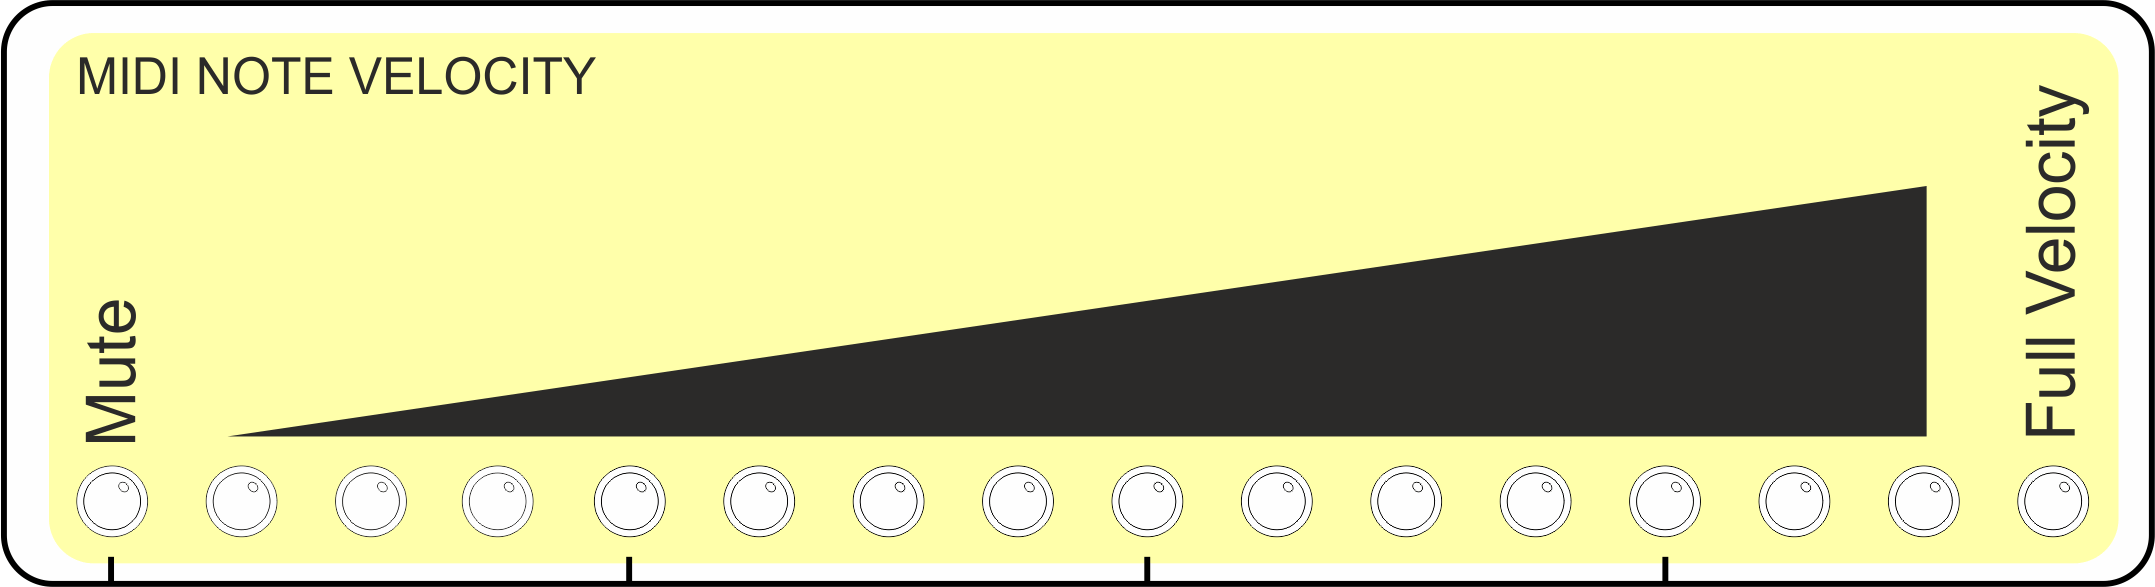
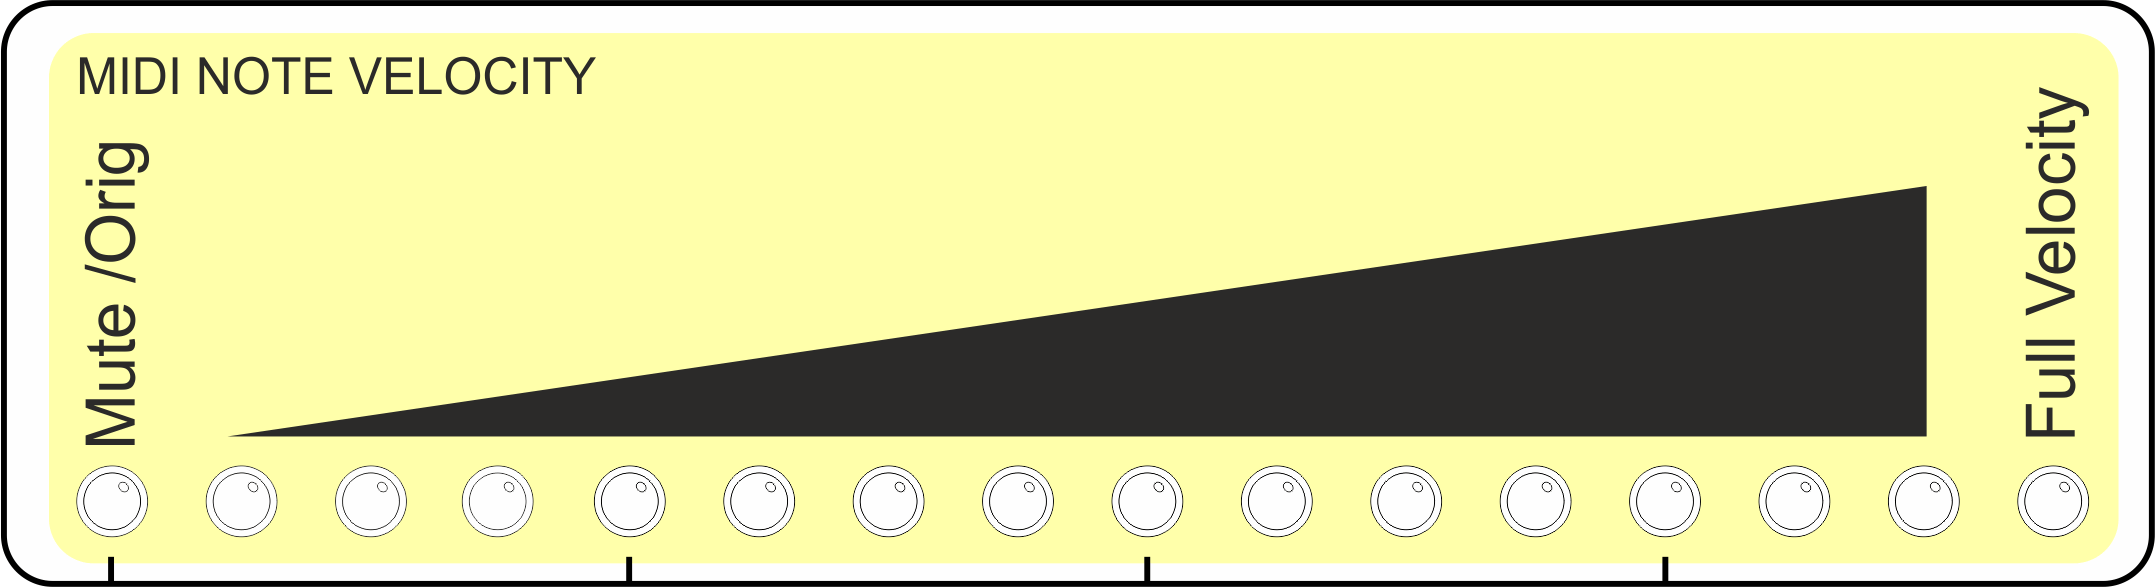
arpie manual updates

diff --git a/products/arpie/manual.md b/products/arpie/manual.md
@@ -263,10 +263,11 @@ This option allows you to select between ARPIE's basic arpeggiation modes:
 
 - **Alternate** plays notes of the chord in ascending then descending order. If the sequence spans multiple octaves, all octaves are spanned on the way "up" before returning "down". The highest note is not repeated.
 
-- **Random** plays the notes of a chord in a random order. 
+- **Random** plays the notes of a chord in a random order. This randomised order is determined when the arpeggio is built and is repeated until the arpeggio is rebuilt (e.g. press the Random Mode button again)
 
 - **Manual** plays the notes of the chord in the order they were received on the MIDI input.
 
+<a name="polygate">
 - **Poly Gate** plays all the notes of the chord at the same time. Thicken up with <a href="#span">SPAN</a> and add some groove with <a href="#patn">PATN</a> to get dancey chord stabs!
 
 ## Pattern Fill
@@ -295,7 +296,7 @@ Press and hold MODE to access the Performance Options. This menu contains settin
 
 - **Glide Tie** controls the operation of the <a href="#patn2">glide</a> function. If the option is OFF, the arpeggiator note coinciding with a glide point is played for one whole step. If the option is ON, then the note is "tied" to the next playing note.
 
-- **Patn Fn2**  controls the long-press function of the <a href="#patn2">PATN</a> button. When this option in OFF, the second function of PATN is **accent**. When the option is ON the function is **glide**
+- **Patn Fn2**  controls the long-press function of the <a href="#patn2">PATN</a> button. When this option in ON, the second function of PATN is **accent**. When the option is OFF the function is **glide**
 
 #SHFT 
 <a name="shft">
@@ -307,11 +308,30 @@ This function transposes the arpeggiated sequence up or down by up to three whol
 
 <a name="shft2">
 
+## Force To Scale: Root Note
+
+<img class="wide" src="img/froot.png">
+
+Hold the SHFT button to access the Force to Scale Root note option.
+
+This option works with <a href="span2">force to scale mode</a> to set the root note of the musical scale to which notes are being forced. For example if force to scale root note is set to D# and force to scale mode is Locrian, notes will be forced into a D# Locrian mode. See <a href="span2">force to scale mode</a> for more information.
+
+
+# SPAN 
+<a name="span">
+
+## Octave Span
+<img class="wide" src="img/span.png">
+
+This option determines the number of octaves the arpeggiated sequence will be extended over. This also works in <a href="#polygate">polyphonic gate mode</a> to layer additional octaves worth of notes on the chord.
+
+<a name="span2">
+
 ## Force To Scale: Mode
 
 <img class="wide" src="img/fscale.png">
 
-The force to scale function makes sure that all notes output from ARPIE fits within a specific musical scale (or "key"). This can sound especially good when transposing held arpeggios, as the note intervals within the chord change to keep it in key.
+The force to scale function is accessed with a long press to the SHFT button. When enabled, this feature makes sure that all notes output from ARPIE fits within a specific musical scale (or "key"). This can sound especially good when transposing held arpeggios, as the note intervals within the chord change to keep it in key.
 
 A musical key is made up of a root note (for example "C") and a set of note intervals which together give us a scale (e.g. "C minor"). 
 
@@ -319,15 +339,21 @@ These sets of note intervals have wierd names derived from ancient Greek tribes!
 
 For example if you play white notes C through C you play a Major scale, which happens to be the same as the "Ionian" mode. If you play white notes A through A you are playing a Minor scale, or "Aeolian" mode. The other modes are just the sets of intervals you get by playing sequences of white notes with different start points... simple! but each mode has a different "feel" and we can have fun playing with them!
 
-The **chromatic** scale includes all notes. Selecting this option turns off force-to-scale. This is the default setting.
+- The **chromatic** scale includes all notes. Selecting this option effectively turns off force-to-scale. This is the default setting.
 
-As well as changing  musical mode, force-to-scale lets us select the <a href="#span2">root note</a> (we need both a musical mode and a starting note to define a scale) and control how out of scale notes are corrected.
+- The **Ionian** mode is equivalent to the intervals between all the white notes on a piano keyboard from C to C. It is the same as the normal major scale.
+
+- The **Aeolian** mode is equivalent to the intervals between all the white notes on a piano keyboard from A to A. It is the same as the natural minor scale.
+
+- The other modes follow the same pattern of white notes from D to D (Dorian), E (Phrygian), F (Lydian), G (Mixolydian) and B (Locrian). Each is a different way of dividing up the 12 semitones of an octave into 8 notes and has a different feel.
+
+As well as changing  musical mode, force-to-scale lets us select the <a href="#shft2">root note</a> (we need both a musical mode and a starting note to define a scale) and control how out of scale notes are corrected.
 
 ## Force To Scale: Note Correction
 
-If you want to make an omelette you need to break a few eggs - and if you want to force a sequence of notes into a musical scale some of them might not fit!
+So - if you want to make an omelette you need to break a few eggs - and if you want to force a sequence of notes into a musical scale some of them just might not fit!
 
-The options ot the right of the SHFT long press menu let us decide what to do with these outliers. Each option has a different musical feel, so have a play!
+This option is accessed by a long press to the SPAN menu. It lets you decide what to do with these outlying notes. Each option has a different musical feel, so have a play!
 
 - **Skip** out-of-scale notes are simply ignored and the next valid note is played. There is no rest introduced.
 
@@ -340,28 +366,14 @@ The options ot the right of the SHFT long press menu let us decide what to do wi
 - **Alternate** out-of-scale notes are alternately sharpened and flattened. Each time the sequence is rebuilt, the action taken with the first corrected note toggles. You can hear the effect of this by pressing the Alternate button again when you have a sequence which is forced to scale.
 
 
-# SPAN 
-<a name="span">
-
-## Octave Span
-<img class="wide" src="img/span.png">
-
-This option determines the number of octaves the arpeggiated sequence will be extended over. 
-
-<a name="span2">
-
-## Force To Scale: Root Note
-
-<img class="wide" src="img/froot.png">
-
-This option works with <a href="shft2">force to scale type</a> to set the root note of the musical scale to which notes are being forced.
-
 #RATE
 <a name="rate">
 
 ## Time Division
 
-This option sets the length of notes in the arpeggiated sequence, as a fraction of a beat (It does not alter the tempo/BPM)
+This option sets the length of notes in the arpeggiated sequence, as a fraction of a beat. While the BPM stays the same, the arpeggio will play faster or slower as the beats are divided up differently. 
+
+The default "normal" note time (at least in 4/4 time) is one sixteenth of a beat, so for example selecting eigths will play notes half the speed for a given BPM.
 
 <img class="wide" src="img/rate.png">
 
@@ -369,25 +381,26 @@ This option sets the length of notes in the arpeggiated sequence, as a fraction 
 
 - **(tr)** represents triplet time (two thirds normal note duration)
 
-The default is sixteenth notes (1 whole beat in 4/4 time)
-
 #VELO
 <a name="velo">
 
 ## MIDI Velocity
 
-This menu controls the MIDI velocity of the notes output by ARPIE. There are two velocity modes and you can toggle between them by pressing and holding the VELO button.
+This menu controls the MIDI velocity of the notes output by ARPIE. There are two velocity modes, described as follows:
 
 ## Select MIDI Velocity
 
 <img class="wide" src="img/velo.png">
 
-This mode allows you to override the velocity of all arpeggiated notes to one of 16 levels (including muted and full velocity) as indicated above
+This mode allows you to override the velocity of all arpeggiated notes to one of 16 specific levels (0,9,17,26,34,43,51,60,68,77,85,94,102,111,119,127). In this mode the original velocity information from the controller keyboard is ignored.
+
+To switch to original velocity mode, press the first data button (zero velocity) two times.
 
 ## Original MIDI Velocity
 
-Original velocity mode plays each arpeggiated note using the velocity of the note as it was played in the chord on the input device. This mode can be identified by the right-most LED being on and all the others off. 
+Original velocity mode plays each arpeggiated note using the velocity of the note as it was played on the controller keyabord. This mode can be identified by the left and right-most LEDs being on and all the others off. 
 
+To switch back to selected velocity mode, press any velocity button, including zero.
 
 #GATE
 <a name="gate">
@@ -396,11 +409,9 @@ Original velocity mode plays each arpeggiated note using the velocity of the not
 
 <img class="wide" src="img/gate.png">
 
-Controls the gate length of the notes output by the sequencer as proportion of the current note length. 
+Controls the gate length of the MIDI notes played by ARPIE. You can select a proportion of a "full step" or you can "tie" notes together.
 
-The highest setting means that one note is "tied" to the next (The note is not stopped until the next note is started, with the MIDI note off message being sent after the next MIDI note on)
-
-The GATE button has no long-press function
+- **Tie Notes** means that a note is not stopped until the next note is started, with the MIDI note off message being sent after the next MIDI note on. This allows notes to play right across rests in the rhythmic pattern allowing for some nice grooves!
 
 #INST
 <a name="inst">
@@ -425,9 +436,9 @@ Extends the length of the arpeggiated sequence by repeating notes from the chord
 
 To the right of the screen are some options for inserting chords without a keyboard. **The HOLD function must be on for this to work!**
 
-**Random** creates a chord from randomised notes. The other buttons insert minor, minor seventh, major seventh, seventh. minor, major chords. The root note is C but you can use the TRAN function to change this.
+- **Random** creates a chord from randomised notes. 
 
-
+- The other buttons insert minor, minor seventh, major seventh, seventh. minor, major chords. The root note is C but you can use the TRAN function to change this.
 
 #SYNC
 <a name="sync">
@@ -435,13 +446,13 @@ To the right of the screen are some options for inserting chords without a keybo
 ## Clock Source And BPM
 <img class="wide" src="img/sync.png">
 
-This screen controls the arp MIDI SYNCH mode and internal metronome (BPM). When ARPIE is running on its internal clock, the data display LED's indicate the approximate BPM. 
+This screen controls the ARPIE's MIDI synch mode and it's internal metronome (BPM). 
 
 - The **Source** button controls the clock source. When the LED in ON, ARPIE runs off its own internal clock source. When the LED is OFF, ARPIE runs on external MIDI clock  via the MIDI IN or AUX SYNCH IN sockets
 
-- The **Send** button controls whether ARPIE sends a MIDI beat clock to the MIDI OUT port. The clock is sent when the option is ON. When this option is switched from OFF to ON, ARPIE also sends a "start" command to the OUT port, which can be used to synchronise MIDI slave devices. 
+- The **Send** button controls whether ARPIE sends a MIDI beat clock to the MIDI OUT port. The clock is sent when the option is ON. When this option is switched from OFF to ON, ARPIE also sends a "start" command to the OUT port, which can be used to synchronise MIDI slave devices. Conversely a MIDI "stop" command is sent when the Send function is switched off.
 
-- When ARPIE is running from it's internal clock source, the  **BPM** buttons can be used to set the tempo to a specific value. BPM defaults to 120 when ARPIE is switched on.
+- When ARPIE is running from it's internal clock source, the  **BPM** buttons can be used to set the tempo to a specific value. BPM defaults to 120 when ARPIE is switched on. The data display LED's indicate the approximate BPM. 
 
 - Pressing the **Tap Input** button two or more times allows you to set the tempo interactively. 
 
@@ -466,6 +477,8 @@ These options give you control over how ARPIE internally routes MIDI information
 - **SYNC Clock** - determines whether ARPIE will listen for external MIDI clock ticks on the AUX MIDI SYNC port. Source must also be set to external for these to be used.
 
 - **Flt.Ch.Mode** - When ON, ARPIE will remove MIDI "Channel Mode Messages" (CC numbers 120 thru 127) from the data thru'd from input to output. Some controllers might send unwanted channel mode messages such as "all notes off" when releasing keys. ARPIE can filter these out if desired.
+
+Note that MIDI thru is handed in ARPIEs firmware (there is no hardware thru) which can cause latency if the arpeggiator engine is busy - and possibly even dropped messages in situations of very high thru volume.
 
 #CHAN
 <a name="chan">
@@ -516,7 +529,7 @@ The HOLD function can be activated by pressing the HOLD button, lighting the HOL
 
 - When the first key of a new chord is pressed, the held chord is cleared, but playback continues without any change to beat timing or position within the rhythmic pattern.
 
-- Stop playback by turning HOLD off by pressing the button again.
+- You can stop playback by turning HOLD off by pressing the button again.
 
 HOLD can be activated or deactivated while notes are already held.
 
@@ -534,80 +547,13 @@ This function can be used to "lock" the arpeggiator engine and start passing MID
 
 MIDI lock can also be useful if you chain together multiple ARPIEs and want to play into a single one at a time while the others are playing sequences in hold mode. 
 
-Exit MIDI lock by pressing HOLD again. ARPIE will return to the previous hold mode.
+Exit MIDI lock by pressing HOLD again. ARPIE will return to the previous HOLD mode.
 
 ## MIDI Transpose function
 
 This function works a bit like MIDI lock, except that instead of passing input notes through to the output, a held arpeggio is transposed according to the interval between the note you play on the input and the lowest note in the arpeggiated chord.
 
 This function is designed to work with the HOLD feature. You can have great fun when using this with force-to-scale options.
-
-#More about synch
-SOURCE
-SEND
-
-INTERNAL
-(LED is ON)
-
-OFF
-STANDALONE 
-Running on internal beat clock
-Internal beat clock is not sent to MIDI output 
-Incoming synch messages are ignored
-
-ON
-MASTER 
-Running on internal beat clock
-Incoming synch messages are ignored
-Internal beat clock is sent to MIDI output 
-When SEND goes from OFF-ON the beat clock is restarted and MIDI restart message is sent to downstream devices
-When SEND goes from ON-OFF the beat clock is stopped and a MIDI stop message is sent to downstream devices
-EXTERNAL
-(LED is OFF)
-OFF
-SLAVE 
-Requires external synch
-Both MIDI IN and SYNCH IN are active (but only one should be used to receive synch messages at any time)
-Incoming synch messages are not passed to output
-
-ON
-SLAVE + THRU
-Requires external synch
-Both MIDI IN and SYNCH IN are active (but only one should be used to receive synch messages at any time)
-Incoming synch messages are not passed to output
-
-#More About MIDI Thru 
-Input Channel Mode
-Behaviours
-OMNI mode (default)
-MIDI note on/note off messages from any input channel are passed to the arpeggiator engine and are not passed to the output
-
-Other MIDI channel messages (such as pitch-bend and mod-wheel) are passed through to output but the channel is always changed to equal ARPIEs selected output channel
-
-Incoming MIDI beat clock message are only passed to output if SYNCH SOURCE is EXTERNAL and SYNCH SEND is ON
-
-Other Realtime/SysEx are passed through
-Specific Input Channel 
-MIDI note on/note off messages from the specific input channel are passed to the arpeggiator engine and are not passed to the output
-
-MIDI note on/note off messages for other channels are passed are passed through to output on their original channels
-
-Other MIDI channel messages (such as pitch-bend and mod-wheel) are passed through to output on their original channels
-
-Incoming MIDI beat clock messages are only passed to output if SYNCH SOURCE is EXTERNAL and SYNCH SEND is ON
-
-Other Realtime/SysEx are passed through
-
-MIDI thru is handed in ARPIEs firmware (there is no hardware thru) which can cause latency if the arpeggiator engine is busy - and possibly even dropped messages in situations of very high thru volume.
-
-#Stored settings
-
-ARPIE stores the following settings in EEPROM, which means that they are remembered when the device is switched off, and used as defaults next time it is switched on
-
-- Synch SOURCE setting
-- Synch SEND setting
-- MIDI input channel (or OMNI) setting
-- MIDI output channel setting
 
 #Clock/Message Routing
 
@@ -621,33 +567,38 @@ This block diagram shows how data is routed around ARPIE
 
 ##Control Pots
 
-You can connect up to three potentiometers (100kOhm - 1Mohm recommended) to ARPIE's hack header and have them control various internal or MIDI parameters.
+You can connect up to three potentiometers (100kOhm - 1Mohm recommended) to ARPIE's hack header, configured as voltage dividers between 0 and 5V, and have them control various internal or MIDI parameters. You can also connect an active low switch to PB3 and have it trigger some predefined specific actions.
 
 The following table shows how to configure hack header LEDs B7 - B0 on the system preference menu. 1 indicated LED is ON and 0 indicates OFF
 
 <center>
 <table class="data">
 <tr style="font-weight:bold"><td width="50"></td><td  width="250"></td></tr>
-<tr><td>0000....</td><td>PC5 Pot Disabled</td></tr>
-<tr><td>0001....</td><td>PC5 Pot MIDI Mod wheel</td></tr>
-<tr><td>0010....</td><td>PC5 Pot ARPIE Transpose</td></tr>
-<tr><td>0011....</td><td>PC5 Pot MIDI CC#</td></tr>
+<tr><td>0.00....</td><td>PC5 Pot Disabled</td></tr>
+<tr><td>0.01....</td><td>PC5 Pot MIDI Mod wheel</td></tr>
+<tr><td>0.10....</td><td>PC5 Pot ARPIE Transpose</td></tr>
+<tr><td>0.11....</td><td>PC5 Pot MIDI CC#</td></tr>
 
-<tr><td>00..00..</td><td>PC4 Pot Disabled</td></tr>
-<tr><td>00..01..</td><td>PC4 Pot ARPIE Velocity</td></tr>
-<tr><td>00..10..</td><td>PC4 Pot MIDI Pitch Bend</td></tr>
-<tr><td>00..11..</td><td>PC4 Pot MIDI CC#</td></tr>
+<tr><td>0...00..</td><td>PC4 Pot Disabled</td></tr>
+<tr><td>0...01..</td><td>PC4 Pot ARPIE Velocity</td></tr>
+<tr><td>0...10..</td><td>PC4 Pot MIDI Pitch Bend</td></tr>
+<tr><td>0...11..</td><td>PC4 Pot MIDI CC#</td></tr>
 
-<tr><td>00....00</td><td>PC0 Pot Disabled</td></tr>
-<tr><td>00....01</td><td>PC0 Pot ARPIE BPM</td></tr>
-<tr><td>00....10</td><td>PC0 Pot ARPIE Gate Length</td></tr>
-<tr><td>00....11</td><td>PC0 Pot MIDI CC#</td></tr>
+<tr><td>0.....00</td><td>PC0 Pot Disabled</td></tr>
+<tr><td>0.....01</td><td>PC0 Pot ARPIE BPM</td></tr>
+<tr><td>0.....10</td><td>PC0 Pot ARPIE Gate Length</td></tr>
+<tr><td>0.....11</td><td>PC0 Pot MIDI CC#</td></tr>
+
+<tr><td>00......</td><td>PB3 Switch MUTE Midi</td></tr>
+<tr><td>01......</td><td>PB3 Switch Restart Bar</td></tr>
 </table>
 </center>
 
+Of course if you are prepared to dirty your hands in the code, you can make it do anything you like!
+
 ##Turning it off
 
-The hack header should always be disabled, unless you specifically want to connect something to it. You may get odd things happening otherwise, if ARPIE reads random values from nonexistent pots... or maybe you want that!
+The hack header should always be disabled, unless you specifically want to connect something to it. Otherwise you may get random things happening if pots are not connected... or maybe you want that!
 
 <center>
 <table class="data">
@@ -675,12 +626,14 @@ The pin assignments on the header in this mode are
 <center>
 <table class="data">
 <tr style="font-weight:bold"><td width="50"></td><td  width="250"></td></tr>
-<tr><td valign="top">PC5</td><td>Ignore pulse clock IN (active low)</td></tr>
+<tr><td valign="top">PC5</td><td>Enable pulse clock (active low)</td></tr>
 <tr><td valign="top">PC4</td><td>Pulse clock OUT</td></tr>
 <tr><td valign="top">PC0</td><td>Pulse clock IN</td></tr>
 <tr><td valign="top">PB3</td><td>Not used</td></tr>
 </table>
 </center>
+
+You'll need to restart ARPIE after changing the pulse clock settings
 
 ##Other Possibilities
 
